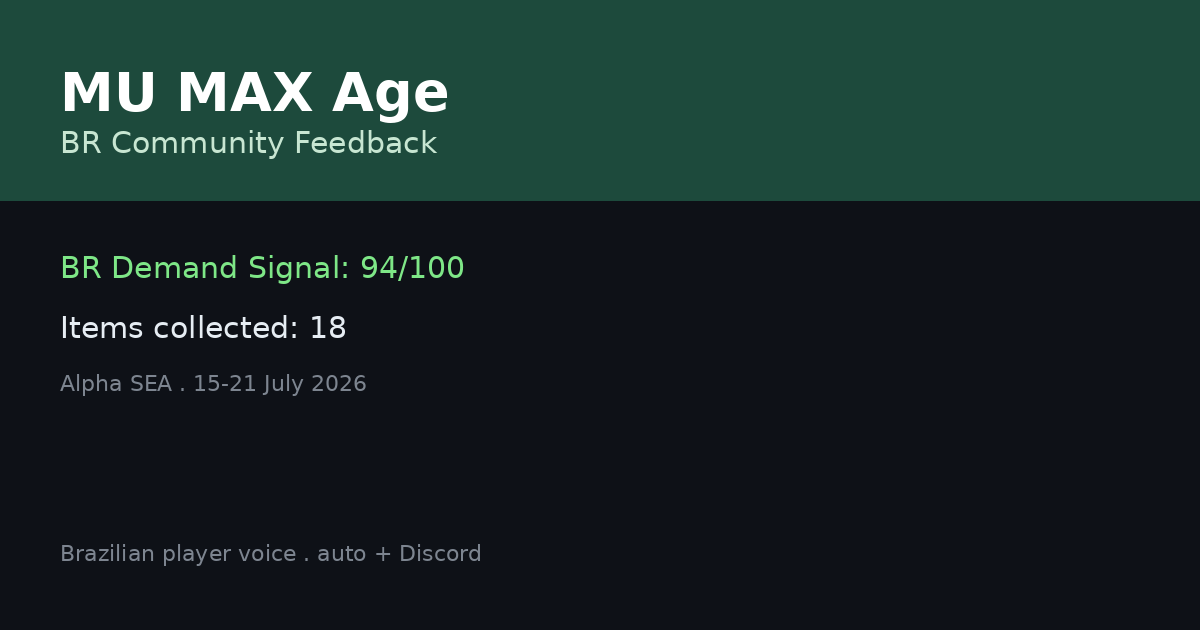
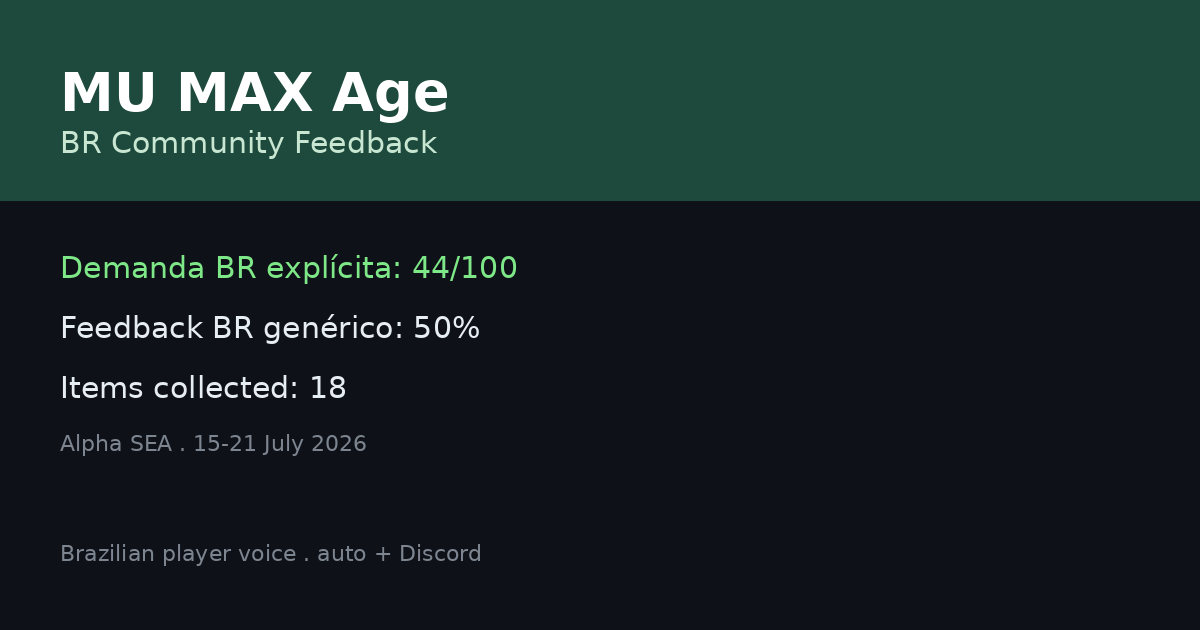
daily update 19/07/2026 (score 44, 18 itens, 1d)

diff --git a/index.html b/index.html
@@ -3,7 +3,7 @@
 <meta name="viewport" content="width=device-width, initial-scale=1">
 <title>MU MAX Age . BR Community Feedback (Alpha SEA 15-21 Jul)</title>
 <meta property="og:title" content="MU MAX Age . BR Community Feedback">
-<meta property="og:description" content="Brazilian community voice on MU MAX Age Alpha (SEA). BR Demand Signal 94/100, 18 items.">
+<meta property="og:description" content="Brazilian community voice on MU MAX Age Alpha (SEA). Explicit BR demand 44/100, generic BR feedback 50%, 18 items.">
 <meta property="og:image" content="og-image.png">
 <meta property="og:type" content="website">
 <meta name="twitter:card" content="summary_large_image">
@@ -23,12 +23,13 @@
   <p class="sub" id="sub">Alpha SEA . July 15-21, 2026 . Brazilian community voice</p>
   <div class="toprow">
   <div class="cards">
-    <div class="card"><div class="cval" id="scoreval">94<span>/100</span></div><div class="clab" id="scorelab">BR Demand Signal</div>
-      <div class="bar"><div class="barfill" style="width:94%;background:#1d4a3c"></div></div></div>
+    <div class="card"><div class="cval" id="scoreval">44<span>/100</span></div><div class="clab" id="scorelab">Demanda BR explícita</div>
+      <div class="bar"><div class="barfill" style="width:44%;background:#9e7a00"></div></div>
+      <div class="sublab" id="scoregen" data-pg="50">Feedback BR genérico: 50%</div></div>
     <div class="card"><div class="cval">18</div><div class="clab" id="itemlab">Items collected</div></div>
     <div class="card"><div class="cval">1</div><div class="clab" id="daylab">Days covered</div></div>
   </div>
-  <p class="date" id="date">Updated 19/07/2026 18:20 BRT</p>
+  <p class="date" id="date">Updated 19/07/2026 18:24 BRT</p>
   <div class="filters">
     <button class="fbtn active" data-f="all" onclick="filterKind('all')">All</button>
     <button class="fbtn" data-f="auto" onclick="filterKind('auto')">Auto web</button>
@@ -57,7 +58,9 @@
       if(l==='en'){ document.documentElement.lang='en';
         document.getElementById('title').textContent='MU MAX Age . BR Community Feedback';
         document.getElementById('sub').textContent='Alpha SEA . July 15-21, 2026 . Brazilian community voice';
-        document.getElementById('scorelab').textContent='BR Demand Signal';
+        document.getElementById('scorelab').textContent='BR Demand Signal (explicit)';
+        var pg=document.getElementById('scoregen').getAttribute('data-pg');
+        document.getElementById('scoregen').textContent='Generic BR feedback: '+pg+'%';
         document.getElementById('itemlab').textContent='Items collected';
         document.getElementById('daylab').textContent='Days covered';
         document.getElementById('sumh').textContent='Summary';
@@ -70,7 +73,9 @@
       } else if(l==='th'){ document.documentElement.lang='th';
         document.getElementById('title').textContent='MU MAX Age . Feedback ชุมชนบราซิล';
         document.getElementById('sub').textContent='Alpha SEA . 15-21 ก.ค. 2026 . เสียงของผู้เล่นบราซิล';
-        document.getElementById('scorelab').textContent='สัญญาณความต้องการ BR';
+        document.getElementById('scorelab').textContent='สัญญาณความต้องการ BR (ชัดเจน)';
+        var pg=document.getElementById('scoregen').getAttribute('data-pg');
+        document.getElementById('scoregen').textContent='ฟีดแบ็ก BR ทั่วไป: '+pg+'%';
         document.getElementById('itemlab').textContent='รายการที่รวบรวม';
         document.getElementById('daylab').textContent='วันที่ครอบคลุม';
         document.getElementById('sumh').textContent='สรุป';
@@ -83,7 +88,9 @@
       } else { document.documentElement.lang='pt-BR';
         document.getElementById('title').textContent='MU MAX Age . Feedback da Comunidade BR';
         document.getElementById('sub').textContent='Alpha SEA . 15-21 julho 2026 . voz da comunidade brasileira';
-        document.getElementById('scorelab').textContent='Demand Signal BR';
+        document.getElementById('scorelab').textContent='Demanda BR explícita';
+        var pg=document.getElementById('scoregen').getAttribute('data-pg');
+        document.getElementById('scoregen').textContent='Feedback BR genérico: '+pg+'%';
         document.getElementById('itemlab').textContent='Itens coletados';
         document.getElementById('daylab').textContent='Dias cobertos';
         document.getElementById('sumh').textContent='Resumo';